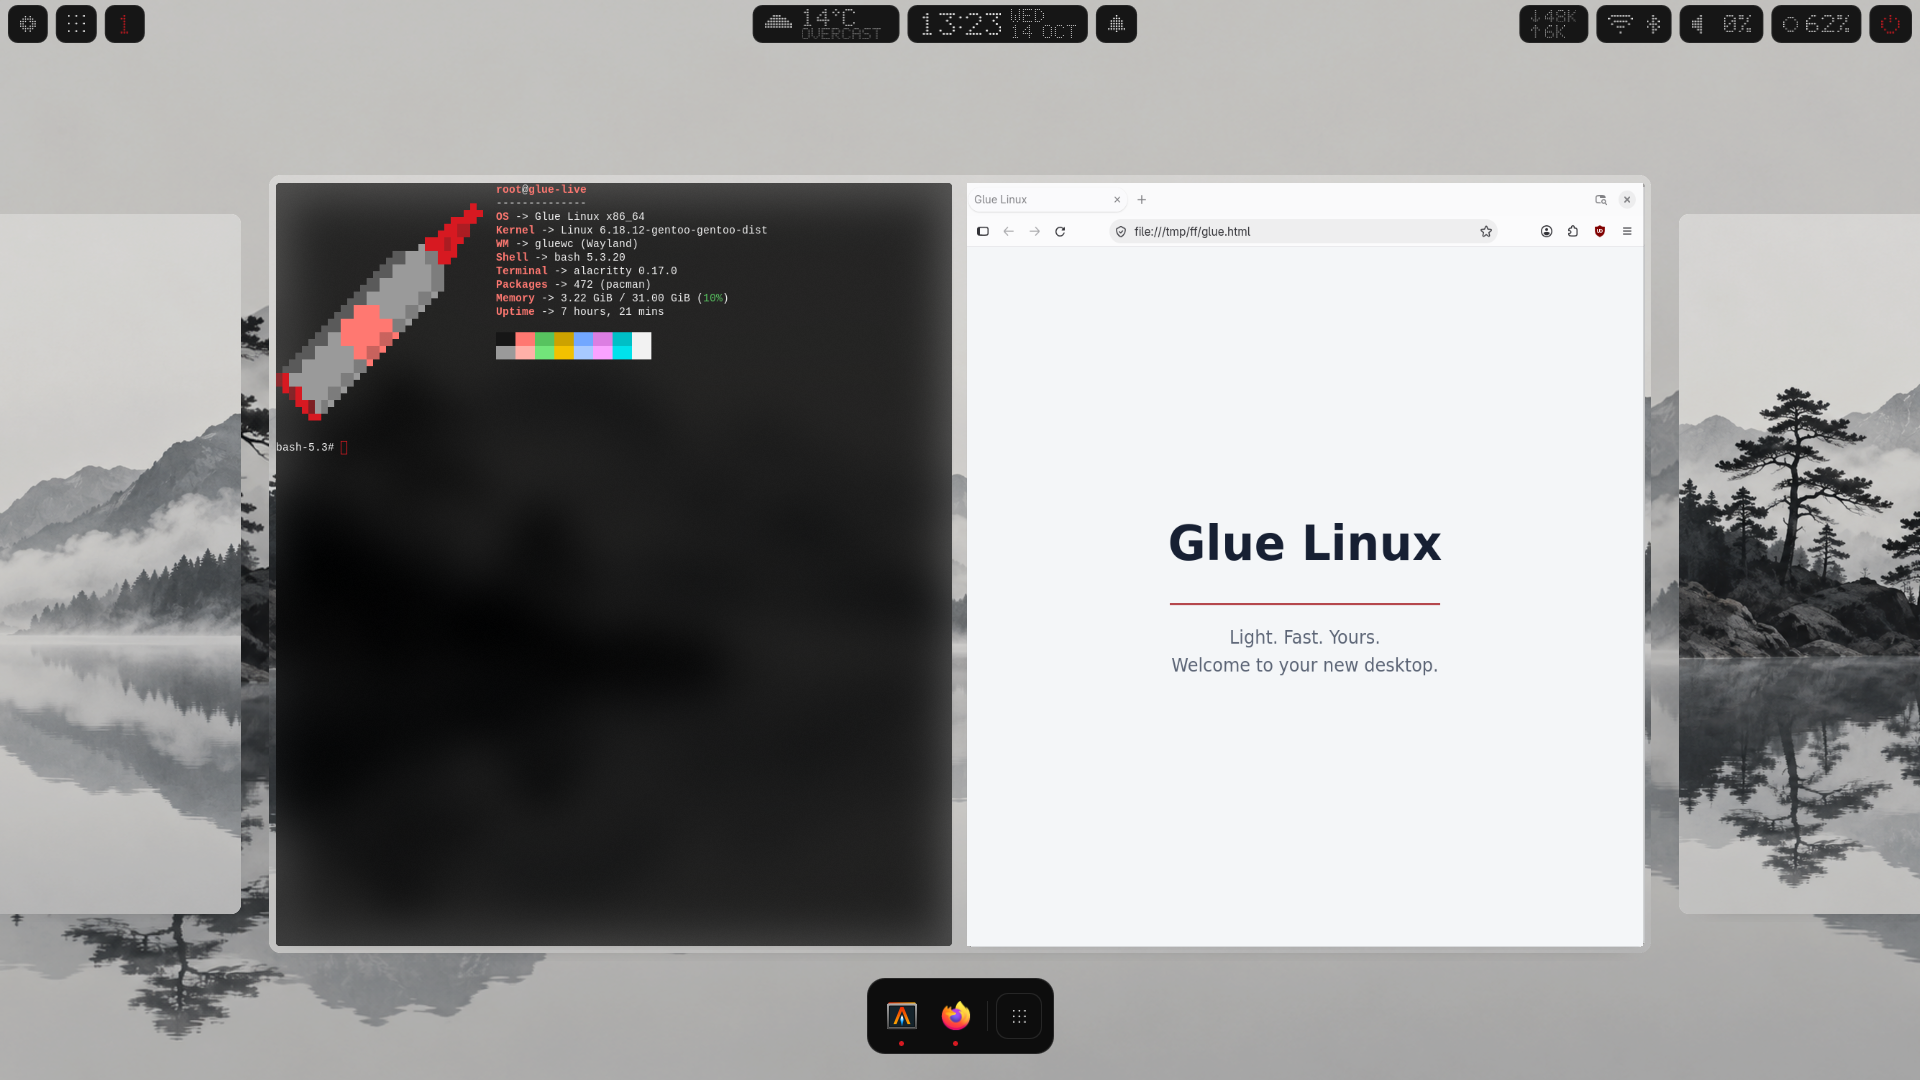
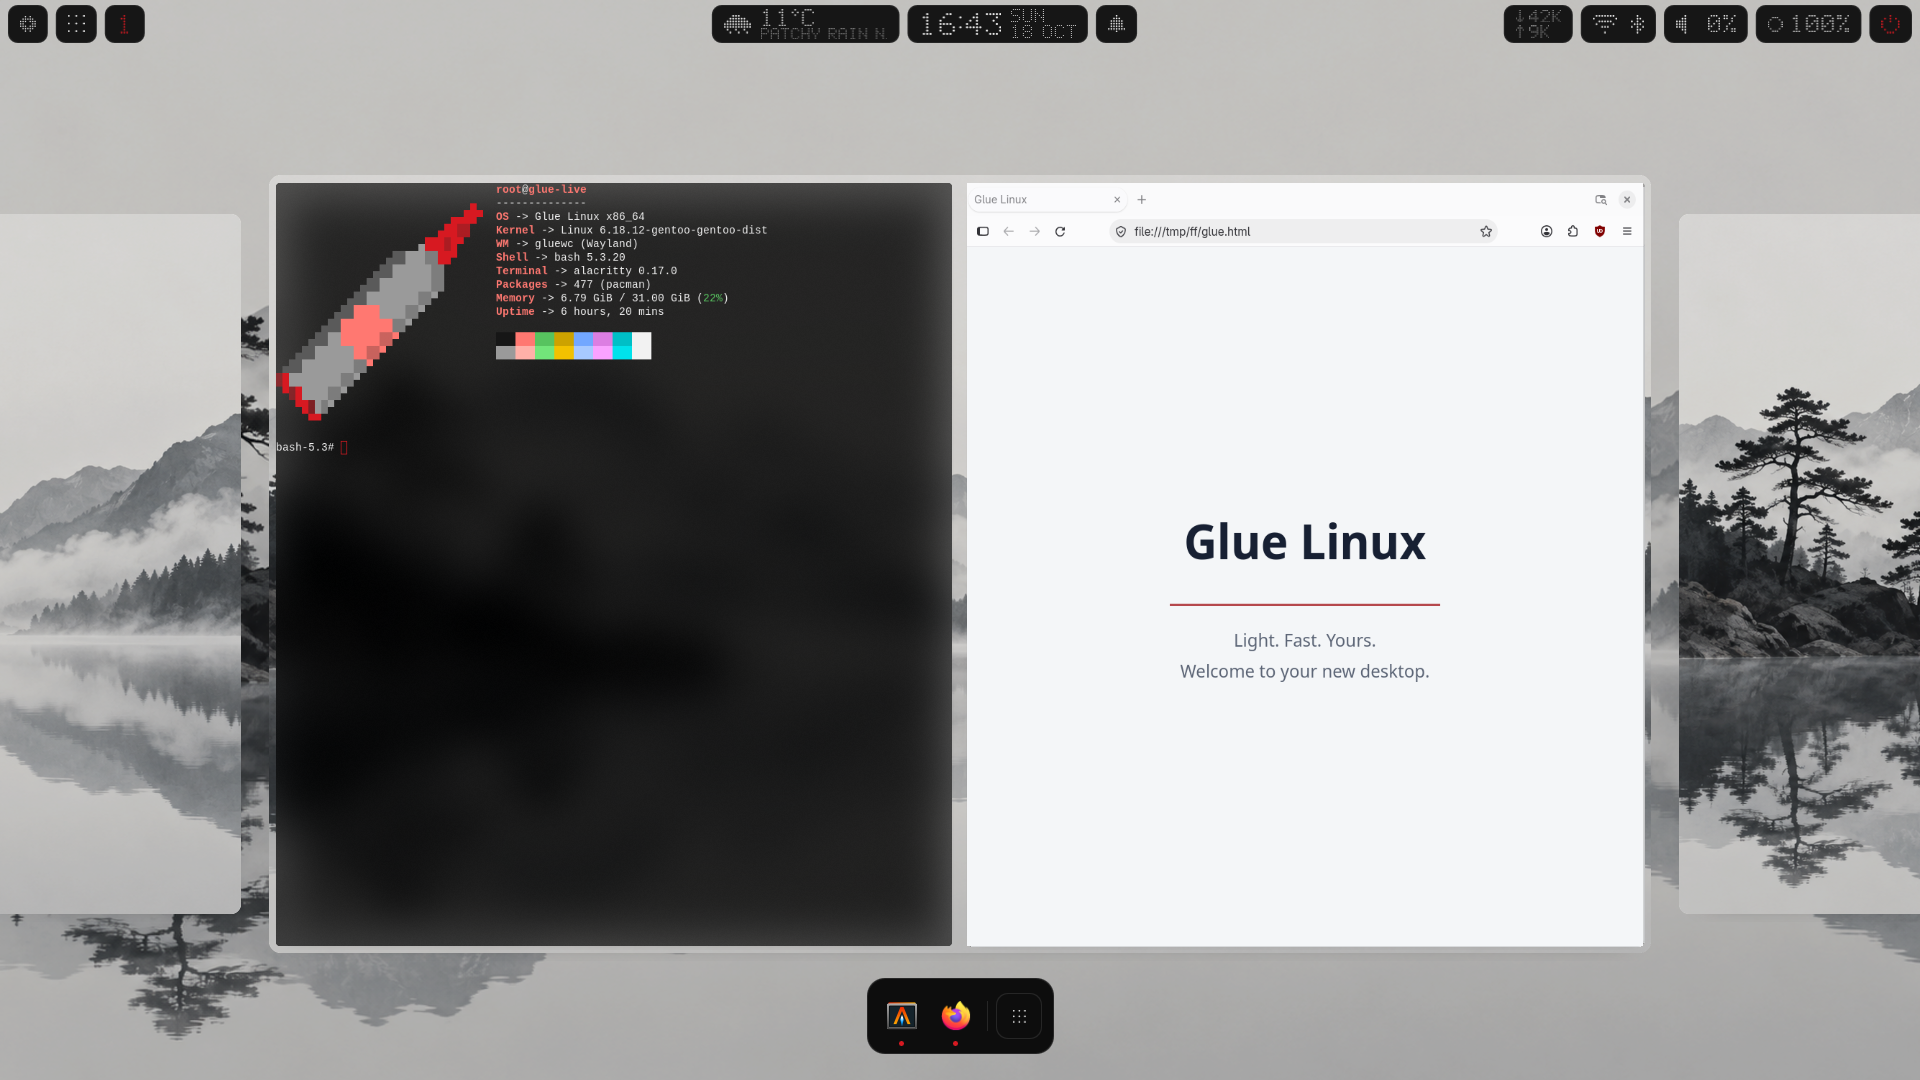
glueqs catalog shots: another colour scheme, a plain-text font and the font page
screenshots-headless.sh switches settings.json mid-session (Amber CRT
scheme, then dot font off with Noto Serif) and captures colors,
colors-bar, font and fonts; the curated font families are installed
for the LOOK page. Catalog, credits, tests and the Calamares desktop
data list the four new pictures.

diff --git a/packages/glue-calamares-config/modules/gluedesktop/DesktopData.js b/packages/glue-calamares-config/modules/gluedesktop/DesktopData.js
@@ -21,6 +21,10 @@ var entries = [
       "file:///usr/share/glue-installer/catalog/screenshots/gluewc-glueqs-calendar.png",
       "file:///usr/share/glue-installer/catalog/screenshots/gluewc-glueqs-notifications.png",
       "file:///usr/share/glue-installer/catalog/screenshots/gluewc-glueqs-settings.png",
+      "file:///usr/share/glue-installer/catalog/screenshots/gluewc-glueqs-colors.png",
+      "file:///usr/share/glue-installer/catalog/screenshots/gluewc-glueqs-colors-bar.png",
+      "file:///usr/share/glue-installer/catalog/screenshots/gluewc-glueqs-font.png",
+      "file:///usr/share/glue-installer/catalog/screenshots/gluewc-glueqs-fonts.png",
       "file:///usr/share/glue-installer/catalog/screenshots/gluewc-glueqs-wallpapers.png"
     ],
     "checked": true

diff --git a/packages/glue-installer/tests/test_catalog.py b/packages/glue-installer/tests/test_catalog.py
@@ -489,7 +489,7 @@ class ScreenshotFilesTest(unittest.TestCase):
     # the only names allowed (5.6/): headless captures + 4 DEs
     ALLOWED = ({f"gluewc-glueqs-{n}.png" for n in (
                    "bar", "launcher", "overview", "calendar", "notifications",
-                   "settings", "wallpapers")}
+                   "settings", "wallpapers", "colors", "colors-bar", "font", "fonts")}
                | {f"gluewc-noctalia-{n}.png" for n in (
                    "bar", "launcher", "control-center", "notifications", "overview",
                    "settings", "wallpapers")}

diff --git a/packages/glue-installer/tests/test_render.py b/packages/glue-installer/tests/test_render.py
@@ -188,7 +188,7 @@ class TestNoticeAndDetail(unittest.TestCase):
         self.assertIn("Ease: 4/5", detail)
         self.assertIn("Lightness: 5/5", detail)
         self.assertIn("Keys: Super+Return — Open terminal", detail)
-        self.assertIn("Preview: 7 images (P to view)", detail)
+        self.assertIn("Preview: 11 images (P to view)", detail)
         self.assertIn("tiling desktop with the glueqs bar", detail)
 
     def test_detail_follows_the_cursor(self):

diff --git a/packages/glue-installer/catalog/screenshots/CREDITS.md b/packages/glue-installer/catalog/screenshots/CREDITS.md
@@ -50,6 +50,30 @@ session looks like and imply no endorsement of Glue Linux.
 - Source: real capture, generated by the Glue Linux project with `scripts/screenshots-headless.sh` (gluewc session nested in a headless cage in the build container, plain `grim` screenshot of the live output; no montage or editing)
 - Shows: gluewc with the glueqs shell: the wallpaper picker (`qs -c glueqs ipc call glueqs wallpaper`) over `~/Pictures/Wallpapers`. The pictures in it are "Stillwater" and "Glue Mac" by the Glue Linux project, both CC0 1.0 Universal (see `packages/glue-branding/WALLPAPER-CREDITS.md`), and four colour treatments of Stillwater (sepia, blue, dusk, night) that the script makes with ImageMagick: CC0 derivatives, same dedication. Desktop wallpaper: "Stillwater" by the Glue Linux project (generated with OpenAI image generation), CC0 1.0 Universal, see `packages/glue-branding/WALLPAPER-CREDITS.md`.
 
+## gluewc-glueqs-colors.png
+
+- License: same license as this repository (project capture); 1920×1080 as captured
+- Source: real capture, generated by the Glue Linux project with `scripts/screenshots-headless.sh` (gluewc session nested in a headless cage in the build container, plain `grim` screenshot of the live output; no montage or editing)
+- Shows: gluewc with the glueqs shell: the glueqs settings window on its THEME page (`settingspage 2`) with the Amber CRT scheme applied to the bar and the window (`themeScheme` set in `settings.json`). Desktop wallpaper: "Stillwater" by the Glue Linux project (generated with OpenAI image generation), CC0 1.0 Universal, see `packages/glue-branding/WALLPAPER-CREDITS.md`.
+
+## gluewc-glueqs-colors-bar.png
+
+- License: same license as this repository (project capture); 1920×1080 as captured
+- Source: real capture, generated by the Glue Linux project with `scripts/screenshots-headless.sh` (gluewc session nested in a headless cage in the build container, plain `grim` screenshot of the live output; no montage or editing)
+- Shows: gluewc with the glueqs shell: the desktop and the bar in the Amber CRT colour scheme (`themeScheme` set in `settings.json`). Desktop wallpaper: "Stillwater" by the Glue Linux project (generated with OpenAI image generation), CC0 1.0 Universal, see `packages/glue-branding/WALLPAPER-CREDITS.md`.
+
+## gluewc-glueqs-font.png
+
+- License: same license as this repository (project capture); 1920×1080 as captured
+- Source: real capture, generated by the Glue Linux project with `scripts/screenshots-headless.sh` (gluewc session nested in a headless cage in the build container, plain `grim` screenshot of the live output; no montage or editing)
+- Shows: gluewc with the glueqs shell: the bar with the dot-matrix font switched off and plain text in Noto Serif (`dotFont` and `uiFont` set in `settings.json`; Noto Serif is under the SIL Open Font License 1.1). Desktop wallpaper: "Stillwater" by the Glue Linux project (generated with OpenAI image generation), CC0 1.0 Universal, see `packages/glue-branding/WALLPAPER-CREDITS.md`.
+
+## gluewc-glueqs-fonts.png
+
+- License: same license as this repository (project capture); 1920×1080 as captured
+- Source: real capture, generated by the Glue Linux project with `scripts/screenshots-headless.sh` (gluewc session nested in a headless cage in the build container, plain `grim` screenshot of the live output; no montage or editing)
+- Shows: gluewc with the glueqs shell: the glueqs settings window on its LOOK page (`settingspage 3`, scrolled to FONT) with the font grid, Noto Serif selected. The fonts shown are JetBrains Mono, Cascadia Code Nerd Font, Noto, DejaVu, Liberation and Nimbus (URW base35), each under its own free license (SIL OFL 1.1, Bitstream Vera/DejaVu, AGPL with font exception). Desktop wallpaper: "Stillwater" by the Glue Linux project (generated with OpenAI image generation), CC0 1.0 Universal, see `packages/glue-branding/WALLPAPER-CREDITS.md`.
+
 ## gluewc-noctalia-bar.png
 
 - License: same license as this repository (project capture); 1920×1080 as captured
